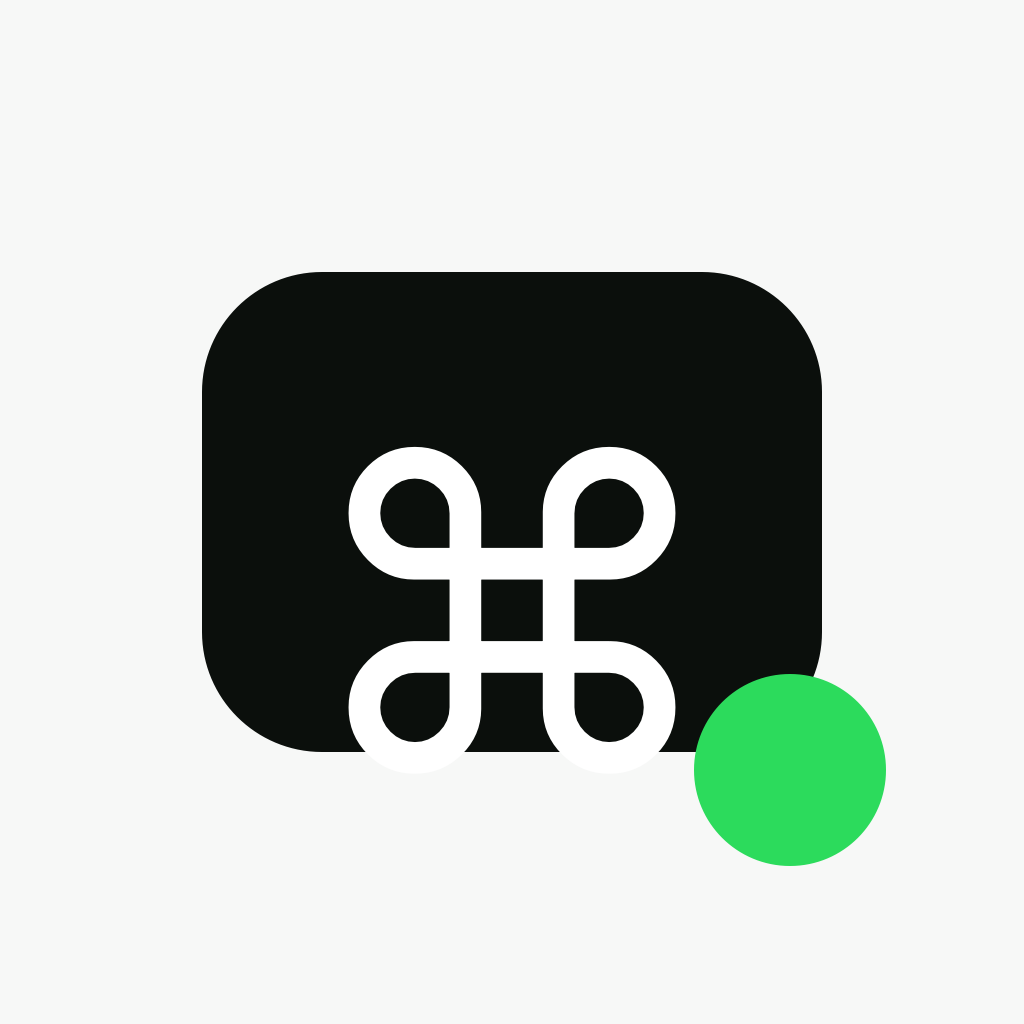
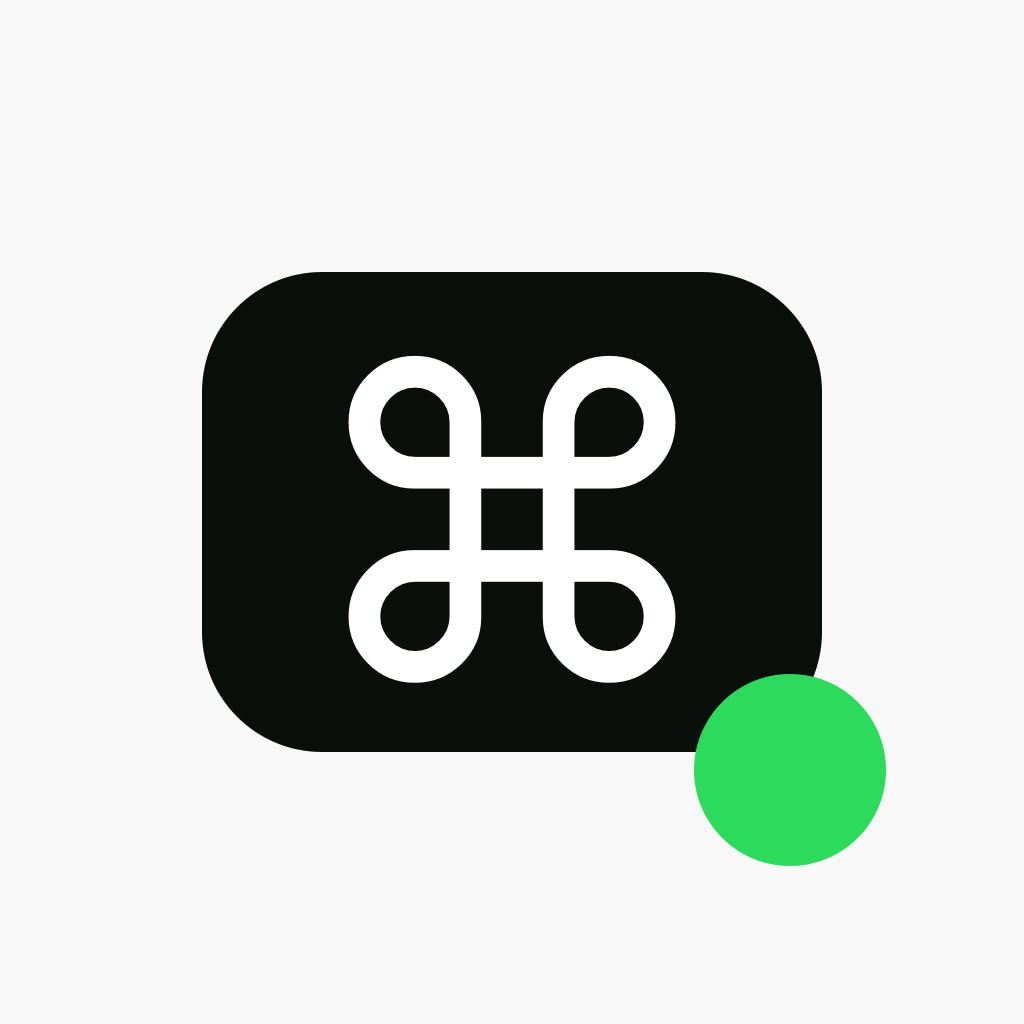
Center glyphs by optical bounds, verified pixel-exact
drawGlyph placed the cursor at hand-fudged offsets from center, leaving
the social preview's command glyph visibly left of the keycap's middle.
Both preview and app icon now center on the optical bounding box
(halves + minX/minY); a pixel-level check measures 0.0% deviation on
both axes for both images.

Changed region(s): [[0.3438, 0.3438, 0.6562, 0.75], [0.4688, 0.5312, 0.5312, 0.5625]]

diff --git a/scripts/make-social-preview.swift b/scripts/make-social-preview.swift
@@ -18,6 +18,10 @@ func color(_ hex: UInt32, _ alpha: CGFloat = 1) -> CGColor {
             blue: CGFloat(hex & 0xFF) / 255, alpha: alpha)
 }
 
+/// `at` is the desired CENTER of the glyph's optical bounds — the only
+/// centering that actually centers (minX/minY are nonzero for most glyphs,
+/// so placing the cursor at "center minus hand-fudged offsets" lands visibly
+/// off, which is exactly the bug this replaced).
 func drawGlyph(_ string: String, font: String, size: CGFloat,
                at position: CGPoint, color: CGColor) {
     let attributed = CFAttributedStringCreateMutable(nil, 0)!
@@ -28,8 +32,9 @@ func drawGlyph(_ string: String, font: String, size: CGFloat,
     CFAttributedStringSetAttribute(attributed, range, kCTForegroundColorAttributeName, color)
     let line = CTLineCreateWithAttributedString(attributed)
     let bounds = CTLineGetBoundsWithOptions(line, .useOpticalBounds)
-    context.textPosition = CGPoint(x: position.x - bounds.minX,
-                                   y: position.y - bounds.minY)
+    context.textPosition = CGPoint(
+        x: position.x - bounds.width / 2 - bounds.minX,
+        y: position.y - bounds.height / 2 - bounds.minY)
     CTLineDraw(line, context)
 }
 
@@ -49,9 +54,9 @@ context.addPath(CGPath(roundedRect: cap, cornerWidth: 120 * unit, cornerHeight: 
 context.setFillColor(color(0x0B0F0C))
 context.fillPath()
 
-// ⌘ centered in the cap, white.
+// ⌘ truly centered in the cap, white.
 drawGlyph("\u{2318}", font: "HelveticaNeue", size: 240 * unit,
-          at: CGPoint(x: cap.midX - 100, y: cap.midY - 60),
+          at: CGPoint(x: cap.midX, y: cap.midY),
           color: color(0xFFFFFF))
 
 // The green: exactly one dot, top-right of the cap.

diff --git a/scripts/make-icons.swift b/scripts/make-icons.swift
@@ -117,9 +117,11 @@ func drawAppIcon(into context: CGContext, size: CGFloat) {
                                     color(0xFFFFFF))
     let line = CTLineCreateWithAttributedString(attributed)
     let bounds = CTLineGetBoundsWithOptions(line, .useOpticalBounds)
+    // Optical-bounds centering, minX/minY included — halving alone leaves
+    // the glyph offset by whatever its origin insets are.
     context.textPosition = CGPoint(
-        x: cap.midX - bounds.width / 2,
-        y: cap.midY - bounds.height / 2)
+        x: cap.midX - bounds.width / 2 - bounds.minX,
+        y: cap.midY - bounds.height / 2 - bounds.minY)
     CTLineDraw(line, context)
 
     // The green: exactly one dot, exactly where the accent always lives.
